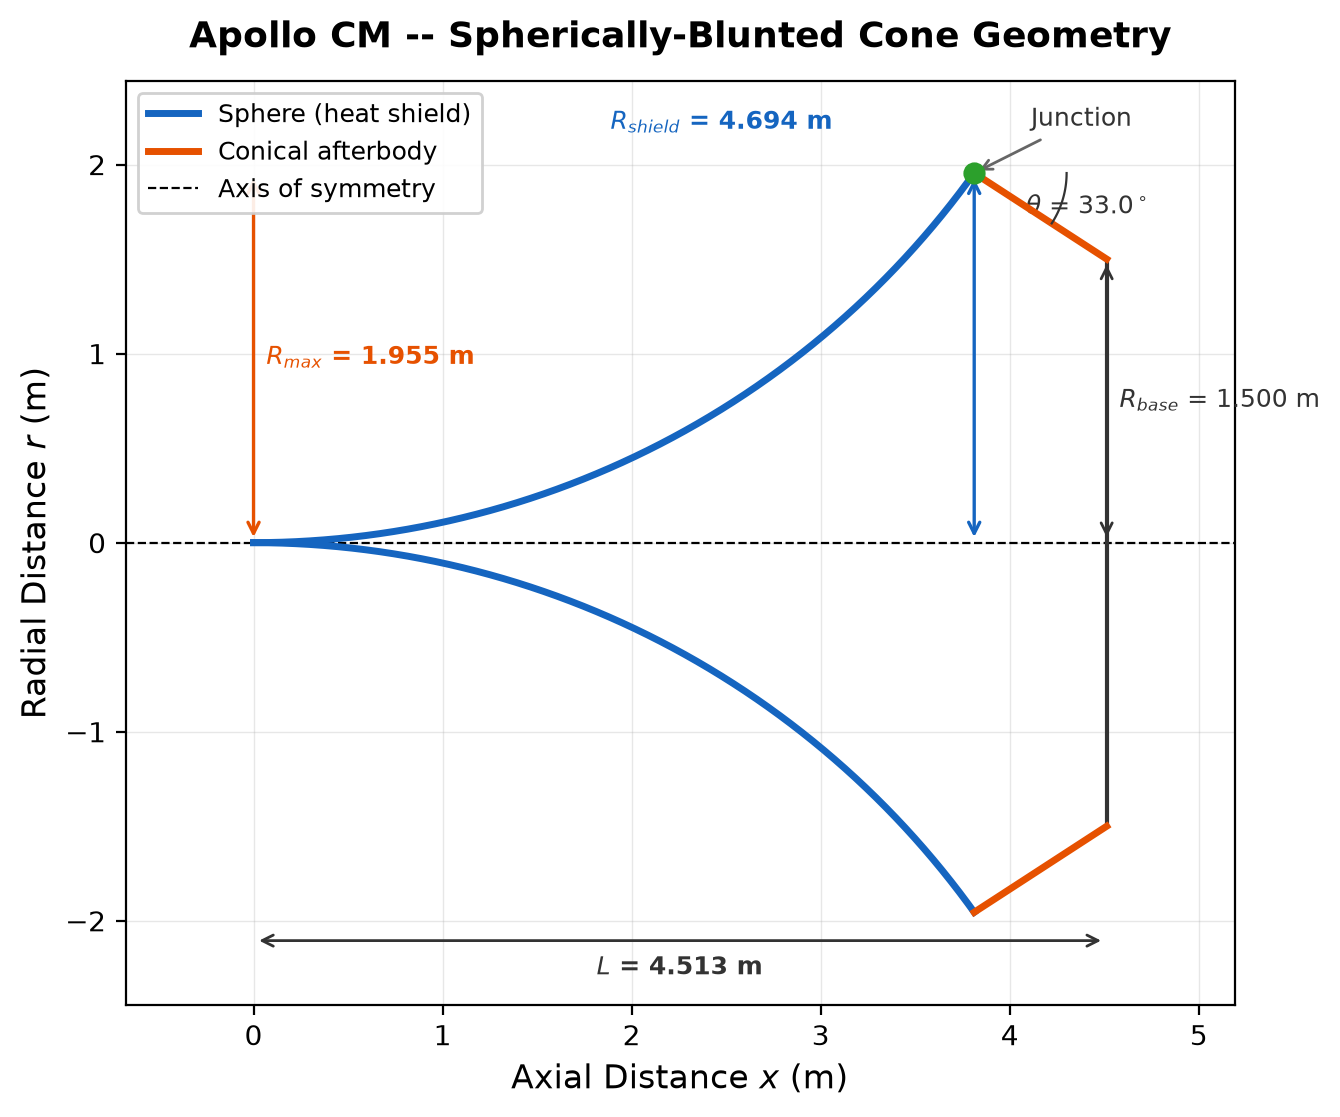
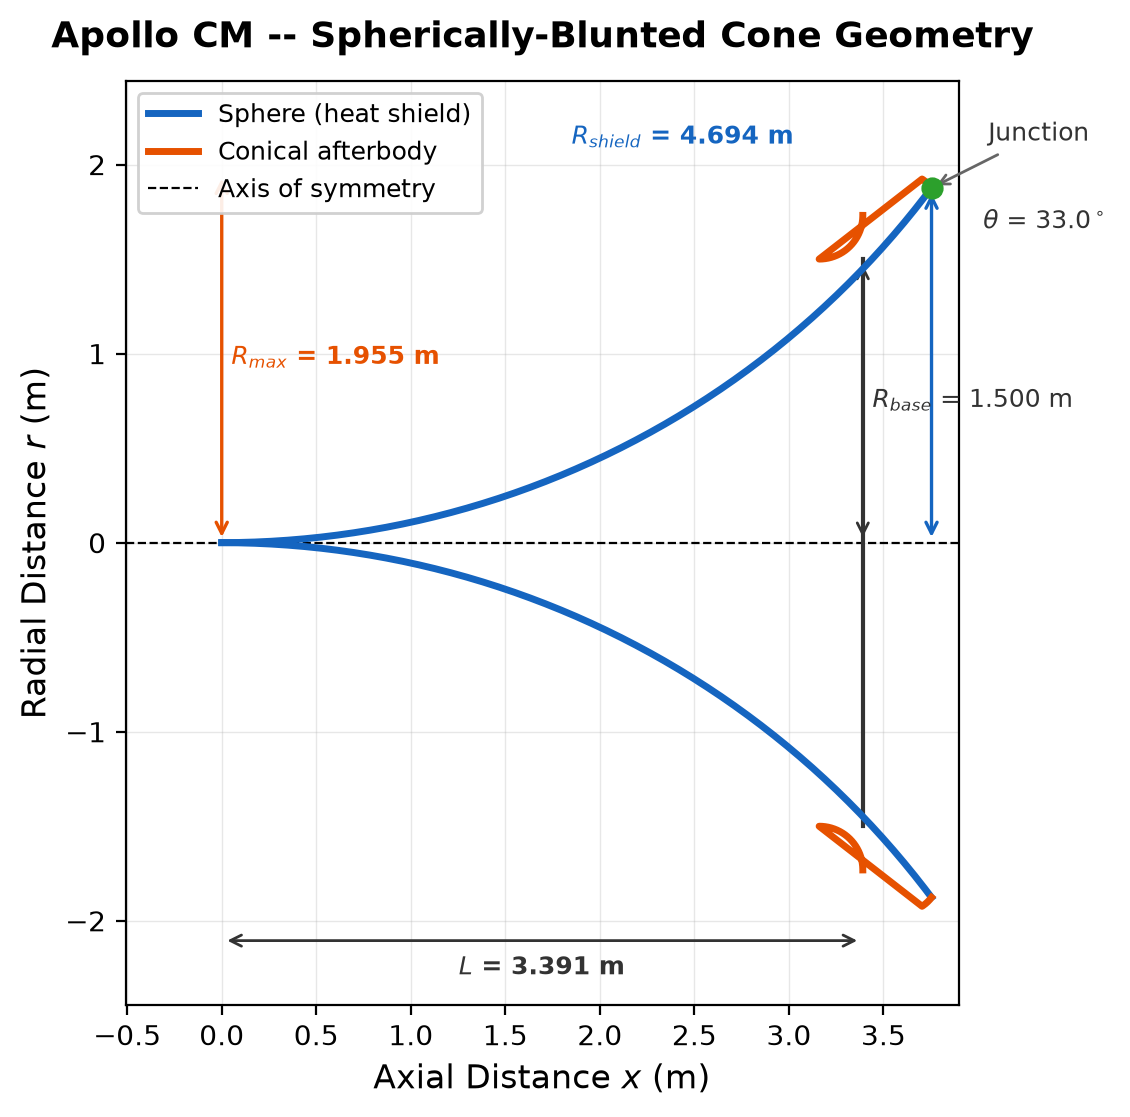
fix: correct Apollo CM body_length to 3.391m per NASA TN D-6028
Added body_length=3.391m (133.5 inches) from NASA TN D-6028 and
updated the docstring to cite the authoritative source. Regenerated
geometry_annotated.png with the corrected dimensions.

diff --git a/src/geometry/presets.py b/src/geometry/presets.py
@@ -8,10 +8,11 @@ from .config import BluntBodyConfig
 def apollo_cm() -> BluntBodyConfig:
     """Apollo Command Module blunt body geometry.
 
-    Source: NASA Technical Drawings, AS-202 flight data.
+    Source: NASA TN D-6028 (1970), NASA TN D-4185 (1967).
     Spherical heat shield (R=4.694m) + 33-deg conical afterbody.
     Max diameter 3.91m (radius 1.955m), base radius 1.5m.
     Junction fillet R=0.196m, base fillet R=0.231m.
+    Total axial length: 133.5 in = 3.391m (NASA TN D-6028).
 
     Returns:
         BluntBodyConfig matching Apollo CM dimensions.
@@ -23,6 +24,7 @@ def apollo_cm() -> BluntBodyConfig:
         max_radius=1.955,
         base_radius=1.5,
         base_fillet_radius=0.231,
+        body_length=3.391,  # NASA TN D-6028: 133.5 inches
         num_points=600,
     )
 
